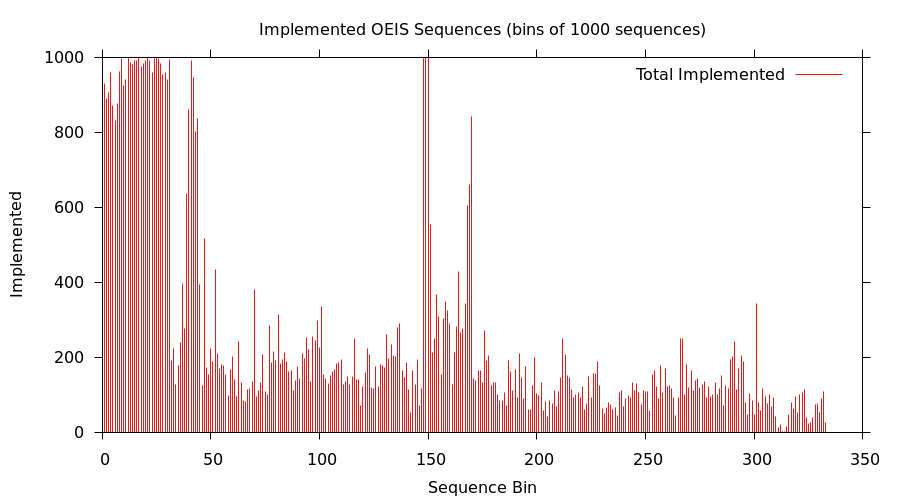
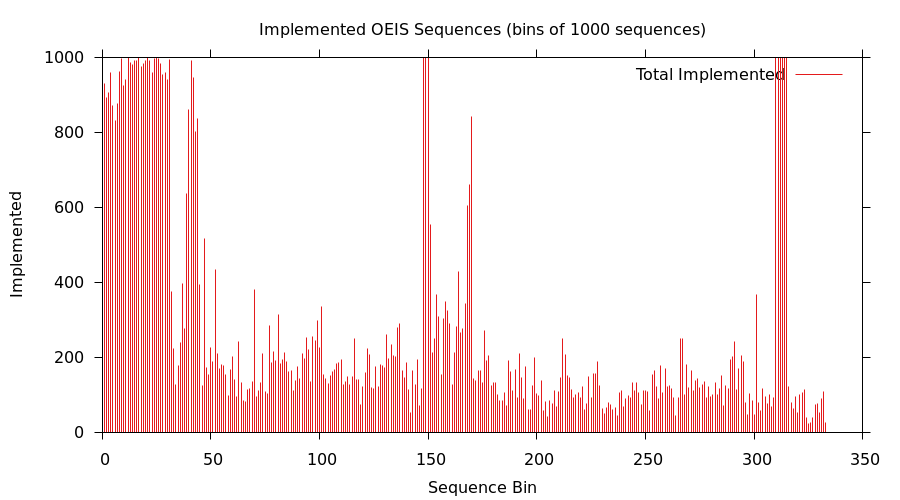
Stats

Changed region(s): [[0.84, 0.12, 0.9022, 0.84]]

diff --git a/README.md b/README.md
@@ -6,7 +6,7 @@ Encyclopedia of Integer Sequences](https://oeis.org/) (OEIS).
 
 This is likely the largest coherent collection of programs for OEIS
 sequences beyond the Maple, Mathematica, and Pari programs directly
-associated with many entries.  Currently over 82000 sequences are
+associated with many entries.  Currently over 89000 sequences are
 implemented. The following plot shows the number of sequences
 implemented (in bins of 1000):
 
@@ -60,6 +60,9 @@ classes based on Hans-J. Boehm's [constructible real
 arithmetic](http://www.hboehm.info/crcalc/CRCalc.html).  A smaller
 number of real number based sequences make use of Mikko Tommila's
 [apfloat library](http://www.apfloat.org/apfloat_java/).
+
+A large number of linear recurrences, generating functions, and tiling
+sequences are based on code developed by Georg Fischer.
 
 Certain parts of the nauty package for computing automorphism groups
 of graphs and digraphs were ported to Java.  Included here by
